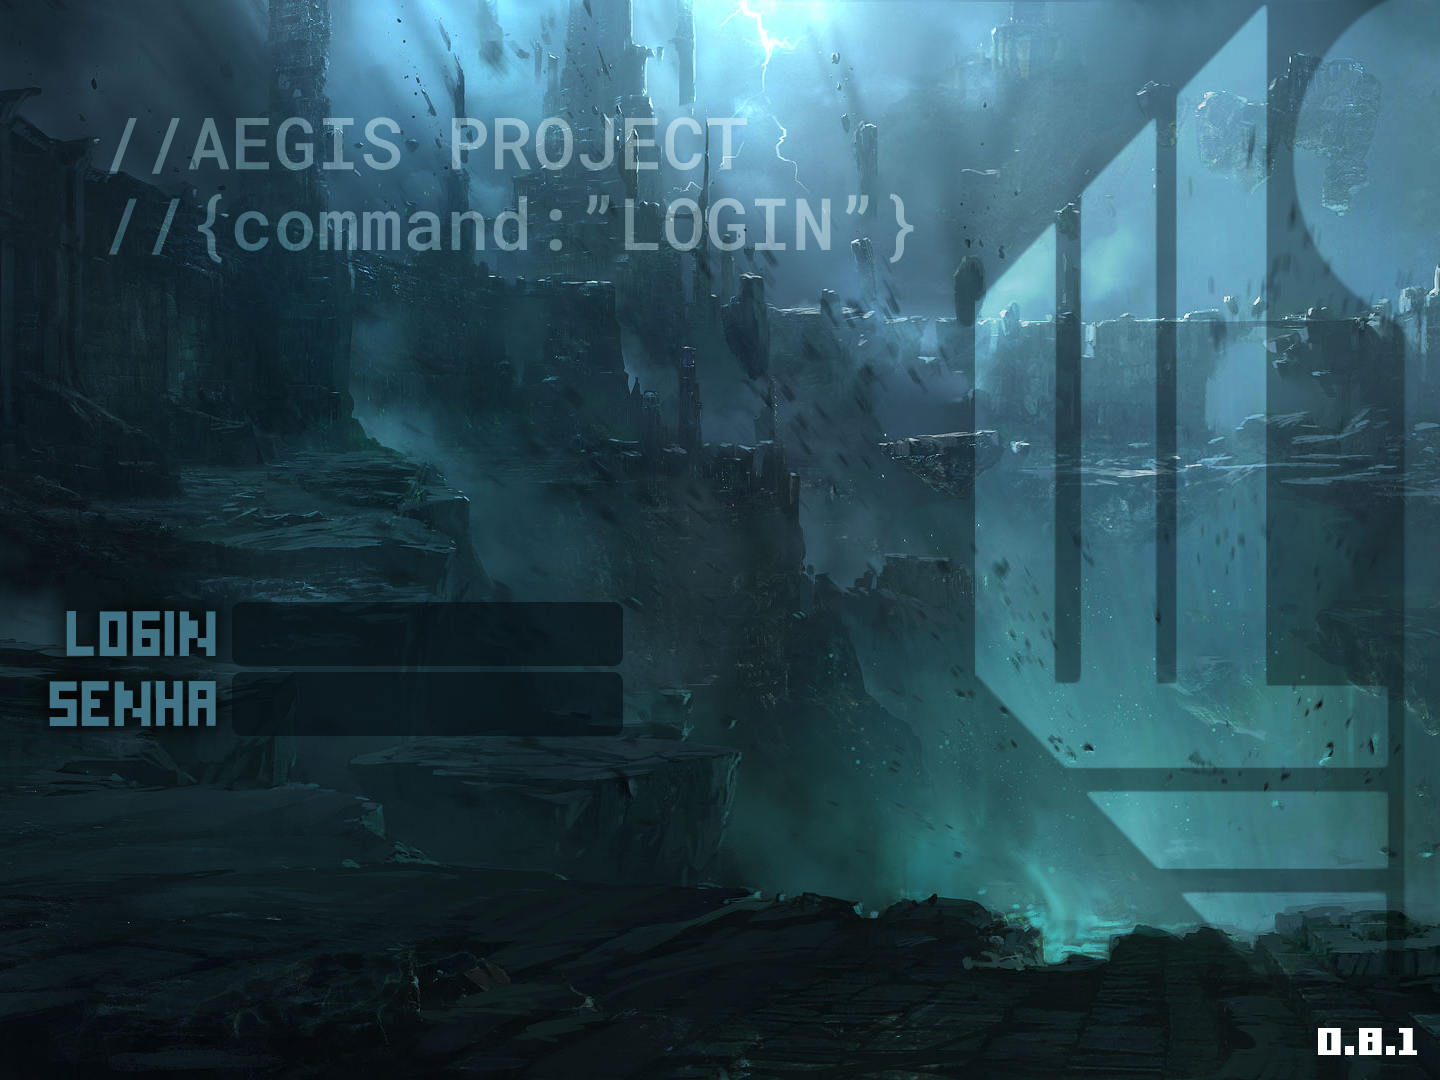
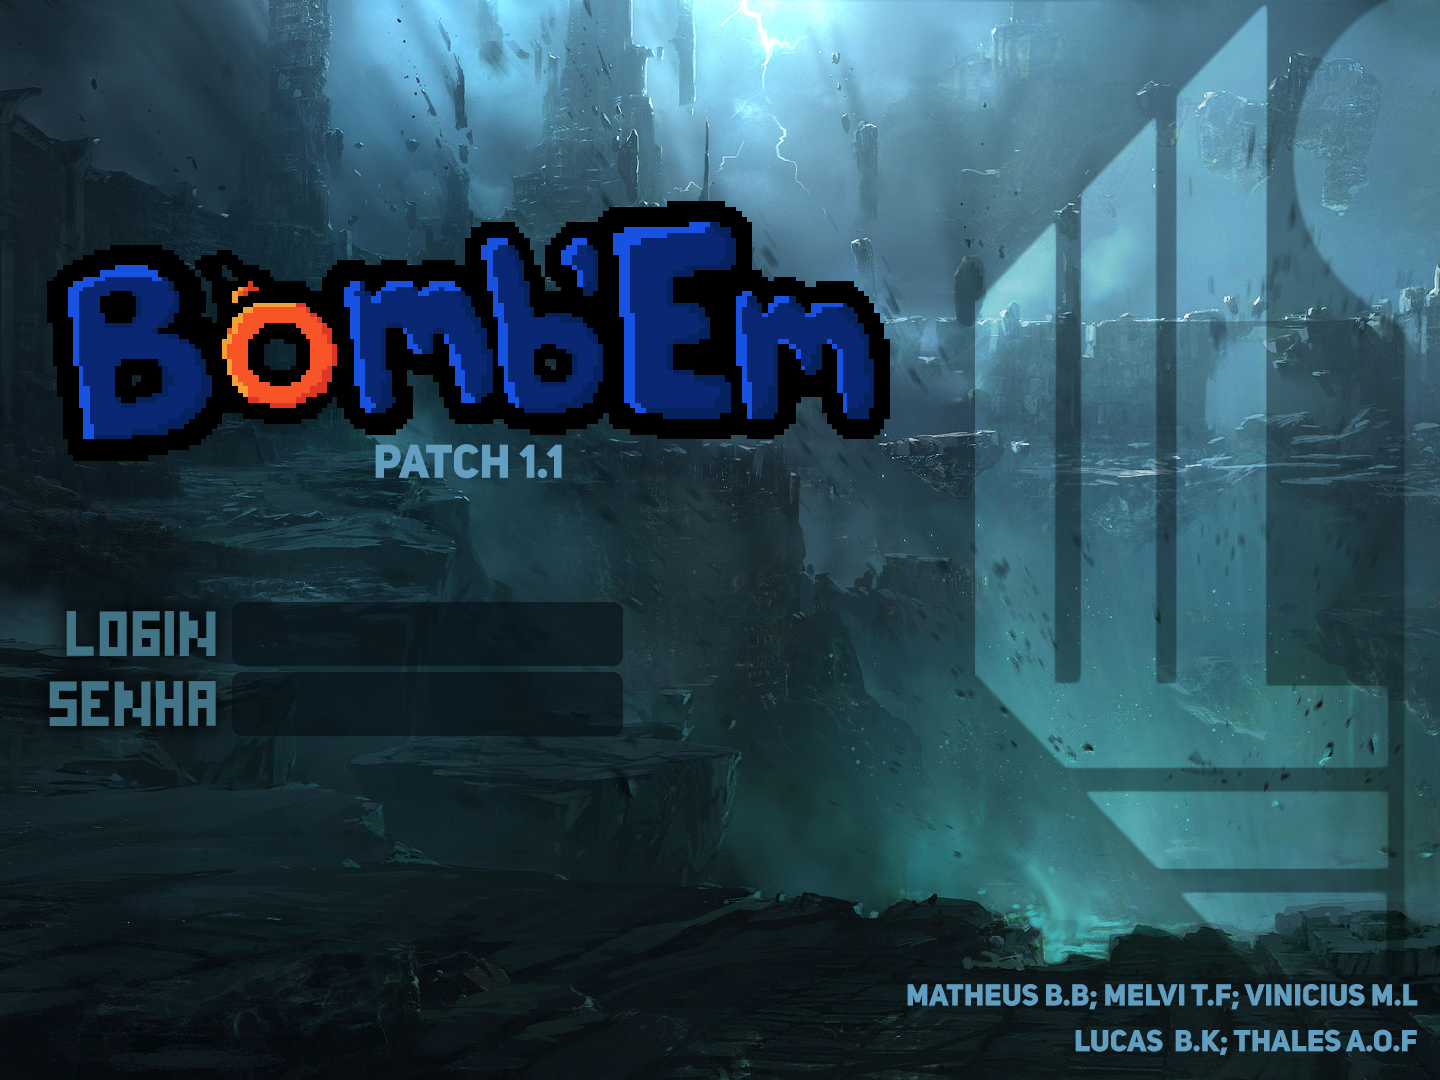
Hotfix
+ Fix no problema do Login
+ Remoção de mais imagens/coisas não usadas
+Pontuação váliada apenas para bot
+ Atualização visual de telas
+ Ícone para o executável

Changed region(s): [[0.0312, 0.0917, 0.6562, 0.4583], [0.625, 0.8861, 1.0, 0.9778], [0.0625, 0.0917, 0.2812, 0.1528]]

diff --git a/scene_singleplayer.c b/scene_singleplayer.c
@@ -22,6 +22,7 @@ Scene_Singleplayer* SceneSingleplayer_new() {
     newScene->pontu = WD_CreateTexture();
     newScene->nivel = WD_CreateTexture();
     newScene->imgBoneco = WD_CreateTexture();
+    newScene->boxbox = WD_CreateTexture();
     newScene->primeiraTela = true;
     newScene->waitingConnection = false;
     newScene->temArquivo = true;
@@ -51,7 +52,7 @@ Scene_Singleplayer* SceneSingleplayer_new() {
 
     char pontac[15], nivel[15];
     sprintf(pontac, "%d/100", newScene->pontuacao%100);
-    sprintf(nivel, "NIVEL %d", newScene->pontuacao/100);
+    sprintf(nivel, "NÍVEL %d", newScene->pontuacao/100);
 
     // Carregar texturas
     WD_TextureLoadFromText(newScene->iniciar, "INICIAR", Game.mainMenu_botoes, orange);
@@ -63,19 +64,27 @@ Scene_Singleplayer* SceneSingleplayer_new() {
     WD_TextureLoadFromText(newScene->nao, "[NÃO]", Game.roboto, gray);
     WD_TextureLoadFromText(newScene->bemVindo, "BEM VINDO", Game.mainMenu_botoes, white );
     WD_TextureLoadFromText(newScene->nome, Game.nome, Game.mainMenu_botoes, blue);
+
     if(newScene->pontuacao%100 > 50)
         WD_TextureLoadFromText(newScene->pontu, pontac, Game.roboto, orange);
     else
         WD_TextureLoadFromText(newScene->pontu, pontac, Game.roboto, white);
+
     WD_TextureLoadFromText(newScene->nivel, nivel, Game.roboto, white);
     WD_TextureLoadFromFile(newScene->imgBoneco, "content/cabecas.png");
-
+    WD_TextureLoadFromFile(newScene->boxbox, "content/boxbox.png");
     WD_TextureLoadFromFile(newScene->background, "content/bgsingle.png");
+
     int w = newScene->background->w, h = newScene->background->h;
     newScene->renderQuad.x = 0;
     newScene->renderQuad.y = 0;
     newScene->renderQuad.w = w;
     newScene->renderQuad.h = h;
+
+    if (Mix_PausedMusic()) {
+        Mix_ResumeMusic();
+        Mix_PlayMusic(Game.mainMusic, -1);
+    }
 
     return newScene;
 }
@@ -123,17 +132,20 @@ void SceneSingleplayer_update(Scene_Singleplayer* s) {
     if (s->primeiraTela) {
 
         if (s->temArquivo) {
-            SDL_Rect barraTotal = { 30+256+30, 30+s->nome->h, 500, 80};
+            int sfx = 1440 / 2 - 786 / 2;
+            int ypls = 150;
+            SDL_Rect barraTotal = { sfx + 30+256+30, 30+s->nome->h + ypls, 500, 80};
             SDL_Rect barraPontuacao = { barraTotal.x, barraTotal.y, (s->pontuacao % 100) / 100.0 * barraTotal.w, barraTotal.h };
             SDL_RenderFillRect(Game.renderer, &barraTotal);
             SDL_SetRenderDrawColor(Game.renderer, 255, 0, 0, 150);
             SDL_RenderFillRect(Game.renderer, &barraPontuacao);
 
+            WD_TextureRender(s->boxbox, sfx + 30, 30 + ypls);
             WD_TextureRender(s->pontu, barraTotal.x , barraTotal.y + barraTotal.h );
-            WD_TextureRender(s->nome, barraTotal.x, 30);
-            WD_TextureRender(s->nivel, (barraTotal.x - s->nivel->w)/2 , 30+256+30);
+            WD_TextureRender(s->nome, barraTotal.x, 30 +ypls);
+            WD_TextureRender(s->nivel, sfx/2 + (barraTotal.x - s->nivel->w)/2 , 30+256+30+ypls);
 
-            WD_TextureRenderEx(s->imgBoneco, 30, 30, &s->posBoneco, 0.0, NULL, SDL_FLIP_NONE);
+            WD_TextureRenderEx(s->imgBoneco, 30 + sfx, 30+ypls, &s->posBoneco, 0.0, NULL, SDL_FLIP_NONE);
         }
 
         WD_TextureRender(s->iniciar, (REFERENCE_WIDTH - s->iniciar->w)/2, 600);
@@ -185,6 +197,7 @@ void SceneSingleplayer_destroy(Scene_Singleplayer* s) {
     WD_TextureDestroy(s->bemVindo);
     WD_TextureDestroy(s->nome);
     WD_TextureDestroy(s->pontu);
+    WD_TextureDestroy(s->boxbox);
     free(s);
 }
 

diff --git a/scene_map.c b/scene_map.c
@@ -5,7 +5,6 @@ Scene_Map* SceneMap_new() {
 
     // Texturas
     newScene->bg = WD_CreateTexture();
-    newScene->bombSprite = WD_CreateTexture();
     newScene->explosionSprite = WD_CreateTexture();
     newScene->wallTexture = WD_CreateTexture();
     newScene->puTexture = WD_CreateTexture();
@@ -44,7 +43,6 @@ Scene_Map* SceneMap_new() {
     WD_TextureLoadFromFile(newScene->bg, "content/bgingame.png");
     WD_TextureLoadFromFile(newScene->animatedBomb, "content/FSD.png");
     WD_TextureLoadFromFile(newScene->tileMap, "content/tilemaster.png");
-    WD_TextureLoadFromFile(newScene->bombSprite, "content/bomb.png");
     WD_TextureLoadFromFile(newScene->explosionSprite, "content/explosion.png");
     WD_TextureLoadFromFile(newScene->wallTexture, "content/wall.png");
     WD_TextureLoadFromFile(newScene->puTexture, "content/powerup.png");
@@ -77,6 +75,31 @@ Scene_Map* SceneMap_new() {
         Mix_ResumeMusic();
 
     return newScene;
+}
+
+bool haveBot() {
+    int qntPlayers = 0;
+    int qntBots = 0;
+    for (int i = 0; i < 4; i++) {
+        if (Game.map->characters[i] != NULL) {
+            if (strncmp(Network.playerNames[i], "BOT", 3) == 0) {
+                qntBots++;
+            }
+            else {
+                qntPlayers++;
+            }
+        }
+    }
+
+    if (qntPlayers == 3 && qntBots == 1) {
+        return false;
+    }
+    else if (qntBots == 0) {
+        return false;
+    }
+    else {
+        return true;
+    }
 }
 
 
@@ -378,7 +401,7 @@ void SceneMap_Receive(Scene_Map* s) {
                             fwrite(&pontuacaoAtual, sizeof(int), 1, arq);
                         fclose(arq);
                     }
-                } else {
+                } else if(!haveBot()){
                     s->connected = false;
                     s->socketFd = TCPSocket_Open();
                     if (s->socketFd != 0)
@@ -680,7 +703,6 @@ void SceneMap_destroy(Scene_Map* s) {
     Mix_FreeChunk(s->winSound);
     Mix_FreeChunk(s->pickup);
     WD_TextureDestroy(s->bg);
-    WD_TextureDestroy(s->bombSprite);
     WD_TextureDestroy(s->explosionSprite);
     WD_TextureDestroy(s->winText);
     WD_TextureDestroy(s->winChar);

diff --git a/scene_login.c b/scene_login.c
@@ -18,6 +18,7 @@ Scene_Login* SceneLogin_new() {
 
     newScene->loginPressed = false;
     newScene->connectionNotStarted = true;
+    newScene->socketFd = -1;
 
     // Texturas
     newScene->loading = WD_CreateTexture();
@@ -67,7 +68,7 @@ Scene_Login* SceneLogin_new() {
 void SceneLogin_update(Scene_Login* s) {
     ///// -- HANDLE NETWORK -- /////
     if (s->loginPressed) {
-        if (s->socketFd != 0 && s->connectionNotStarted) {
+        if (s->connectionNotStarted) {
             s->dataReceived = false;
             s->connected = false;
             s->socketFd = TCPSocket_Open();

diff --git a/main.c b/main.c
@@ -29,6 +29,8 @@ bool initialize() {
         Game.screenWidth = REFERENCE_WIDTH * Game.screenMulti;
         Game.screenHeight = REFERENCE_HEIGHT * Game.screenMulti;
         Game.window = SDL_CreateWindow("Projeto UEL", SDL_WINDOWPOS_UNDEFINED, SDL_WINDOWPOS_UNDEFINED, Game.screenWidth, Game.screenHeight, SDL_WINDOW_SHOWN);
+        SDL_Surface *icon = IMG_Load("content/icon.png");
+        SDL_SetWindowIcon(Game.window, icon);
         if(Game.window == NULL) {
             printf("Falha ao criar a janela! Erro: %s\n", SDL_GetError());
             success = false;

diff --git a/scene_map.h b/scene_map.h
@@ -31,7 +31,7 @@ Explosion_Render(Explosion* e, int screenX, int screenY, WTexture* explosionSpri
 typedef struct Scene_Map {
     WTexture* tileMap;
     WTexture* animatedBomb;
-    WTexture *bombSprite, *explosionSprite;
+    WTexture *explosionSprite;
     WTexture* wallTexture;
     WTexture* puTexture;
     WTexture* winChar;

diff --git a/scene_singleplayer.h b/scene_singleplayer.h
@@ -20,6 +20,7 @@ typedef struct Scene_Singleplayer {
     WTexture* nome;
     WTexture* pontu;
     WTexture* nivel;
+    WTexture* boxbox;
     WTexture* imgBoneco;
     SDL_Rect renderQuad;
     SDL_Rect posBoneco;
